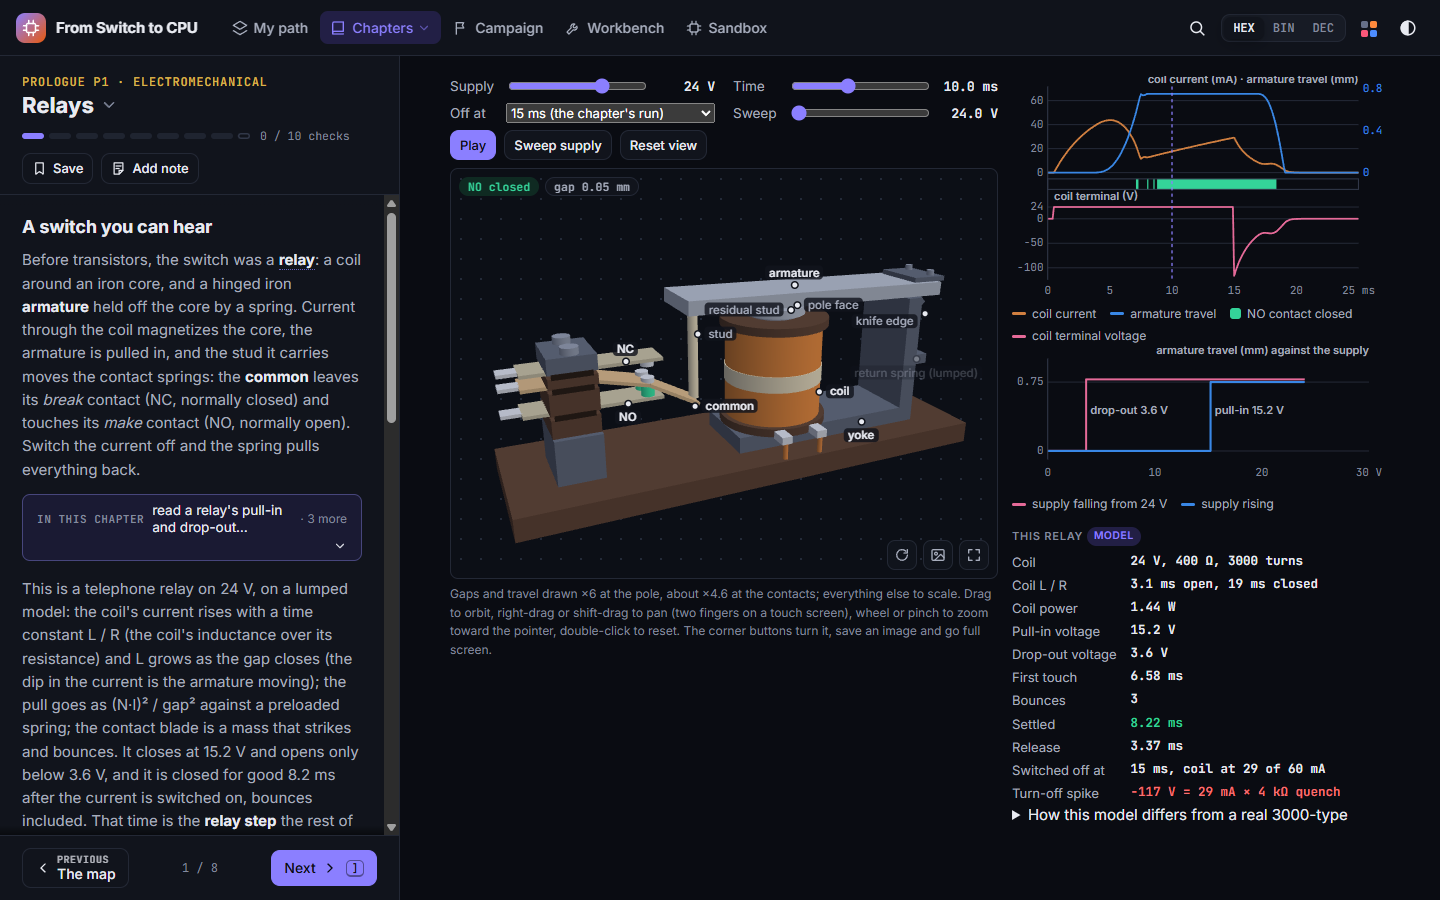
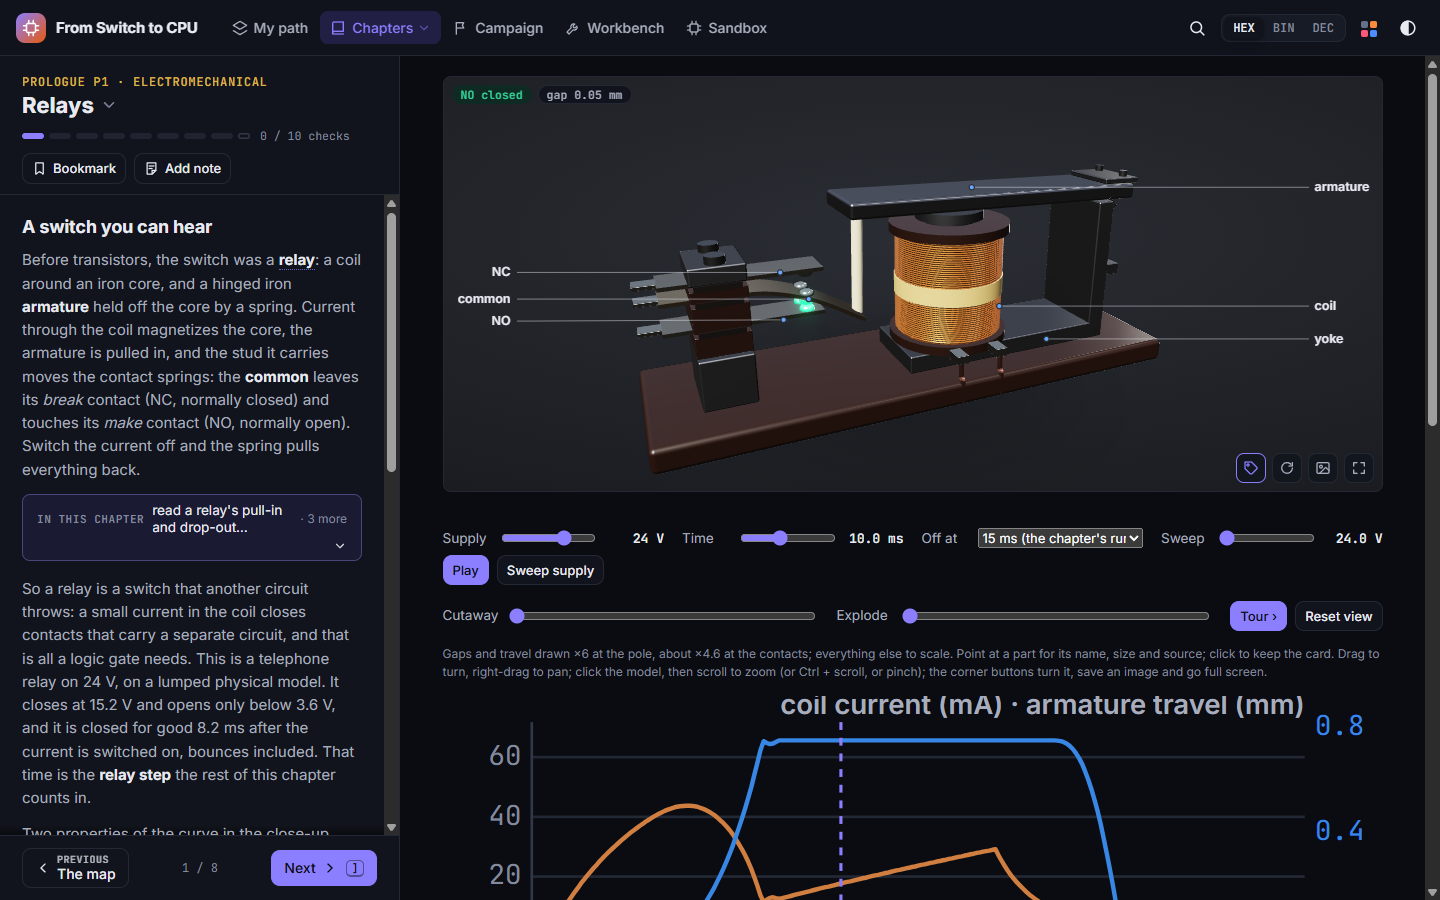
README: a Manual section, open-as-you-zoom and the 3D stage; 3D and working-gates shots retaken

diff --git a/README.md b/README.md
@@ -20,12 +20,30 @@ in the page into chips that open down to the transistors like everything else.
 The default look draws **working gates**: every NAND shows its four CMOS transistors inside its outline,
 switching on and off with the live values, so even a CPU-sized drawing still says what each gate is made of.
 The View options menu turns it off, and sets the palette, wire thickness, grid, labels and flowing bits.
+Two more are on by default: **Open blocks as you zoom** (zoom into a block and its inside opens in place, live; zoom
+further to step in, out to close it) and **Opened blocks without colour** (an opened block's inside reads on the plain board).
+
+The 3D models (transistors, relays, valves, memories, chips, a picture tube, the Enigma and more) share one stage: drag to
+turn, Cutaway and Explode to open them, a Tour through their views, names on every part (**N** hides them), a card per part
+with its size and source, full screen and a saved image. Each says what is to scale and what is exaggerated, and a printed
+chapter keeps them as figures.
 
 Four ways in: the **[journey](https://switchtocpu.com/#/c/map/0)** (<!--n:journey-->94<!--/n--> chapters,
 <!--n:onramps-->2<!--/n--> on-ramps for newcomers, <!--n:prologue-->3<!--/n--> prologue chapters and <!--n:appendices-->6<!--/n--> appendices), the **[campaign](https://switchtocpu.com/#/campaign)**
 (<!--n:levels-->182<!--/n--> levels: build it to unlock it, or fix it), the **[workbench](https://switchtocpu.com/#/workbench/rca4)**
 (any component on its own, with statistics, benchmarks and the out-of-order lab) and the
 **[sandbox](https://switchtocpu.com/#/sandbox)** (your own circuits, up to whole computers).
+
+## Manual
+
+New to the site? The **[instruction manual](docs/manual/README.md)** has a quick start with screenshots for each of the
+four sections, then where every control is and how to do each task:
+
+- [The journey](docs/manual/journey.md#quick-start): read a step, set an input, open a gate down to its transistors, answer its question.
+- [The campaign](docs/manual/campaign.md#quick-start): open the map and pass your first build level.
+- [The workbench](docs/manual/workbench.md#quick-start): pick a part, set its size, read its cost and truth table, open it.
+- [The sandbox](docs/manual/sandbox.md#quick-start): place two gates, wire them, try them and package them as a chip.
+- [What works everywhere](docs/manual/everywhere.md): search, view options, keys, My path, notes and review, backup, print, phone and offline.
 
 ## The journey
 
